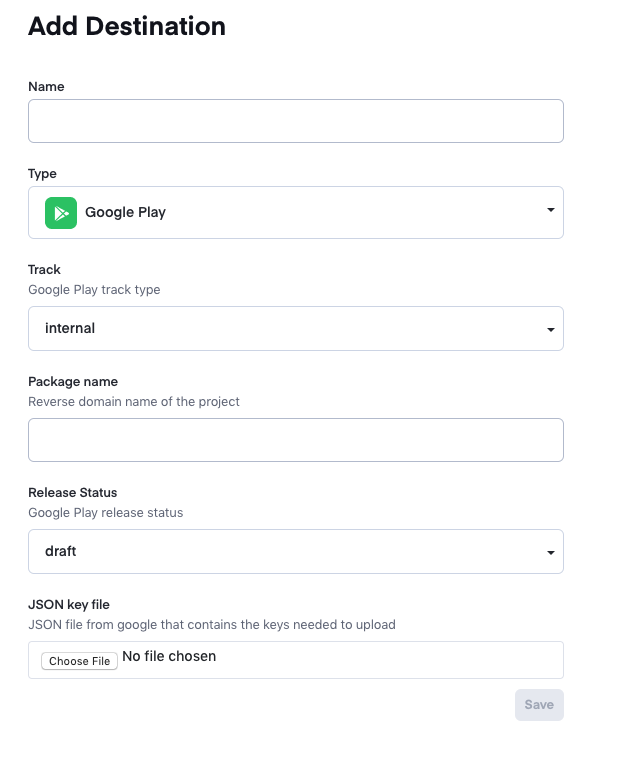
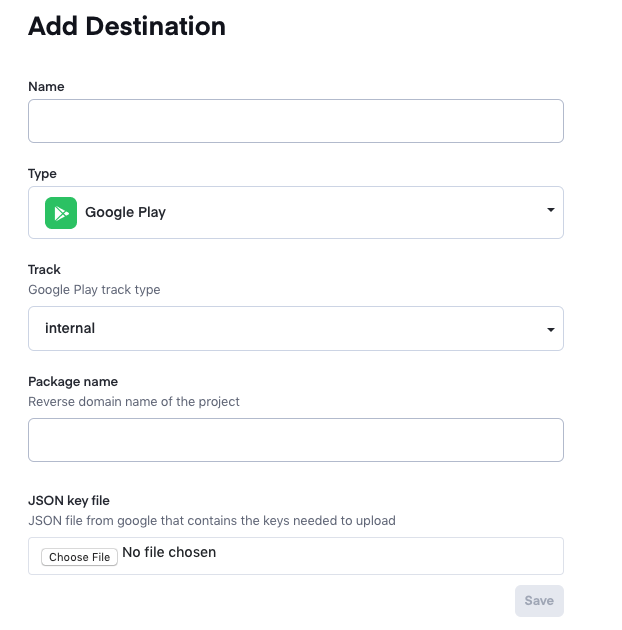
yet more changes, maybe the last

diff --git a/src/pages/appflow/destinations/cli.md b/src/pages/appflow/destinations/cli.md
@@ -11,11 +11,11 @@ You can also create a build that will be deployed to an app store or deploy an a
 > **NOTE:** To deploy a build you will need to have permissions to be able to deploy builds from cli.
 
 - **Create new build that will be deployed to an app store**
-    - Command: `ionic package build <platform> <type> --security-profile=<name> --destination=<name>`
+    - Command: `ionic package deploy <platform> <type> --security-profile=<name> --destination=<name>`
     - `<platform>`
         - `android` or `ios`
     - `<type>`
-        - `app-store` for `ios`
+        - `app-store` or `enterprise` for `ios`
         - `release` for `android`
     - `--security-profile=<name>`
         - The selected profile must be a release or app store profile
@@ -24,7 +24,7 @@ You can also create a build that will be deployed to an app store or deploy an a
         - For an Android build it must be a Google Play Store destination
 
 - **Deploy an existing build to an app store**
-    - Command: `ionic package build <build-id> <destination>`
+    - Command: `ionic package deploy <build-id> <destination>`
     - `<build-id>`
         - An existing build that has been looked up in the UI
     - `<destination>`

diff --git a/src/pages/appflow/destinations/google.md b/src/pages/appflow/destinations/google.md
@@ -17,8 +17,6 @@ The Google Play destination allows you to upload your finished binaries to the s
 - **Package name**
     - in reverse domain name format.
         - e.g. com.yourdomain.yourappname
-- **Release Status**
-    - Which status to label the upload with.
 - **JSON key**
     - To upload to the Google Play Store you will need to create a service account and download the JSON file containing security info for the service account.
         1. Go to [Google Play Console](https://play.google.com/apps/publish/)

diff --git a/src/pages/appflow/destinations/manual.md b/src/pages/appflow/destinations/manual.md
@@ -18,4 +18,4 @@ To deploy an existing binary a build that has the correct security profile selec
 
 - The result will be shown in the `Deployment` page
 
-- Once you have returned to the `Deployment` page you can click on the row to the logs for the Deployment
+- Once you have returned to the `Deployment` page you can click on the row to see the logs for the Deployment
